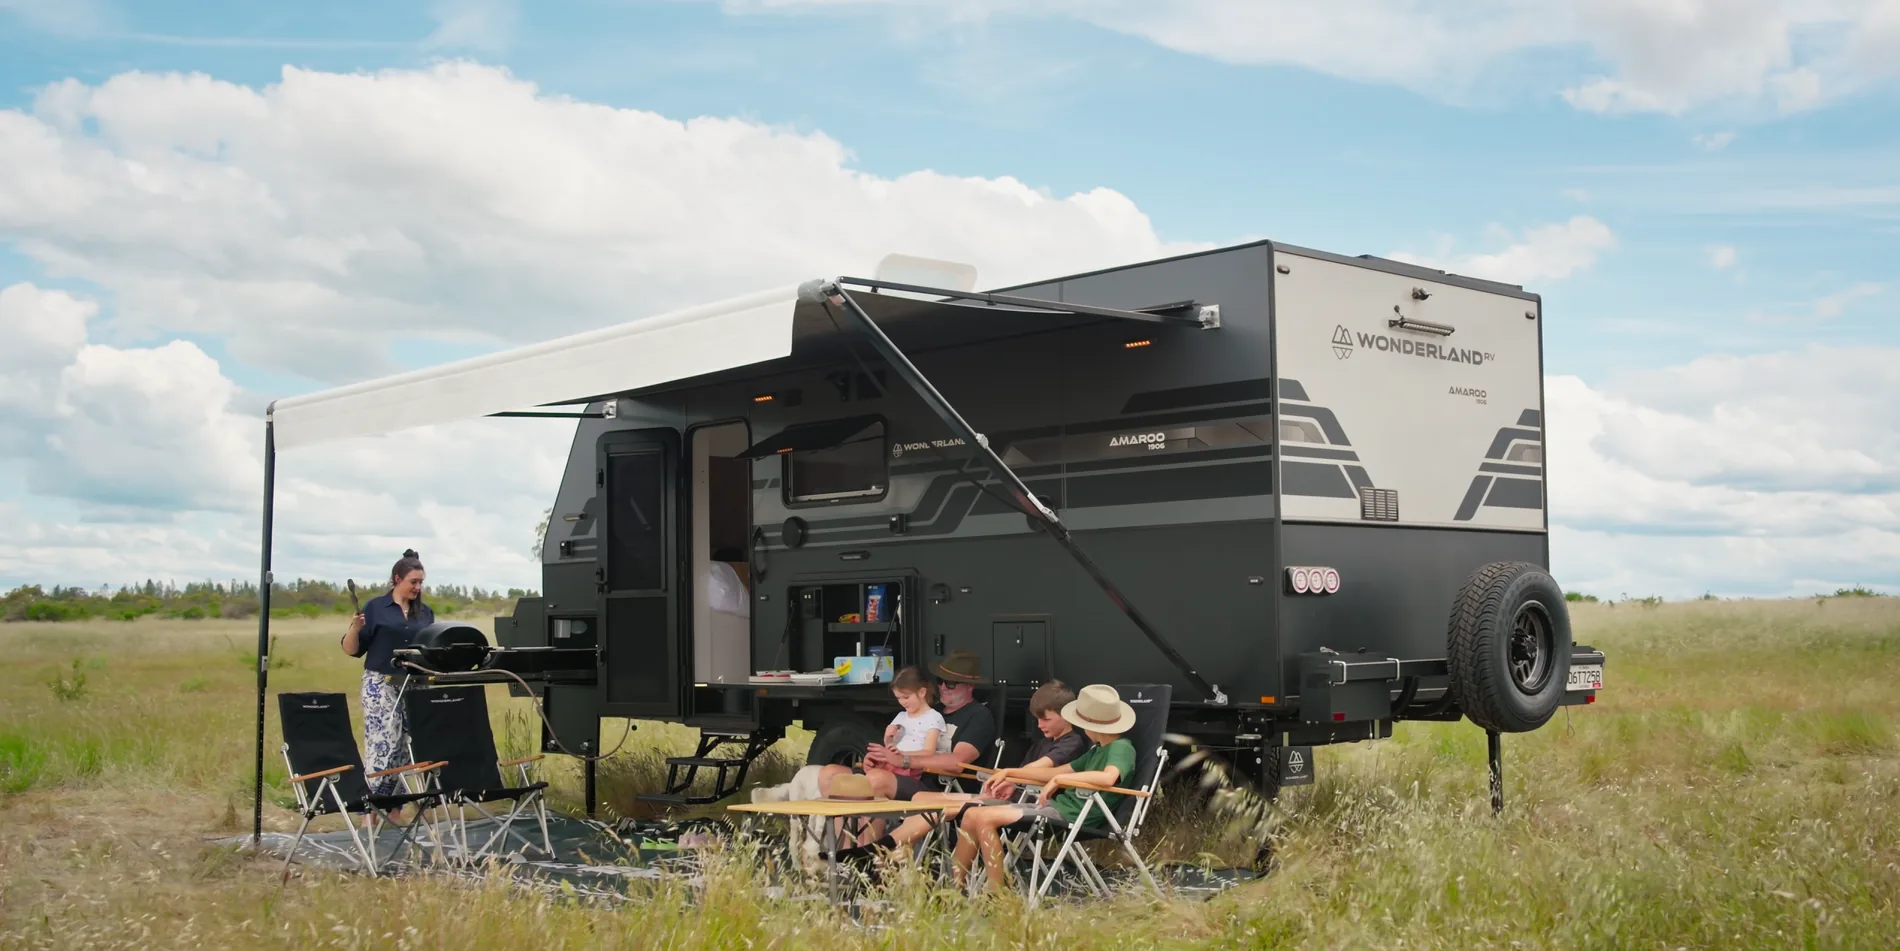
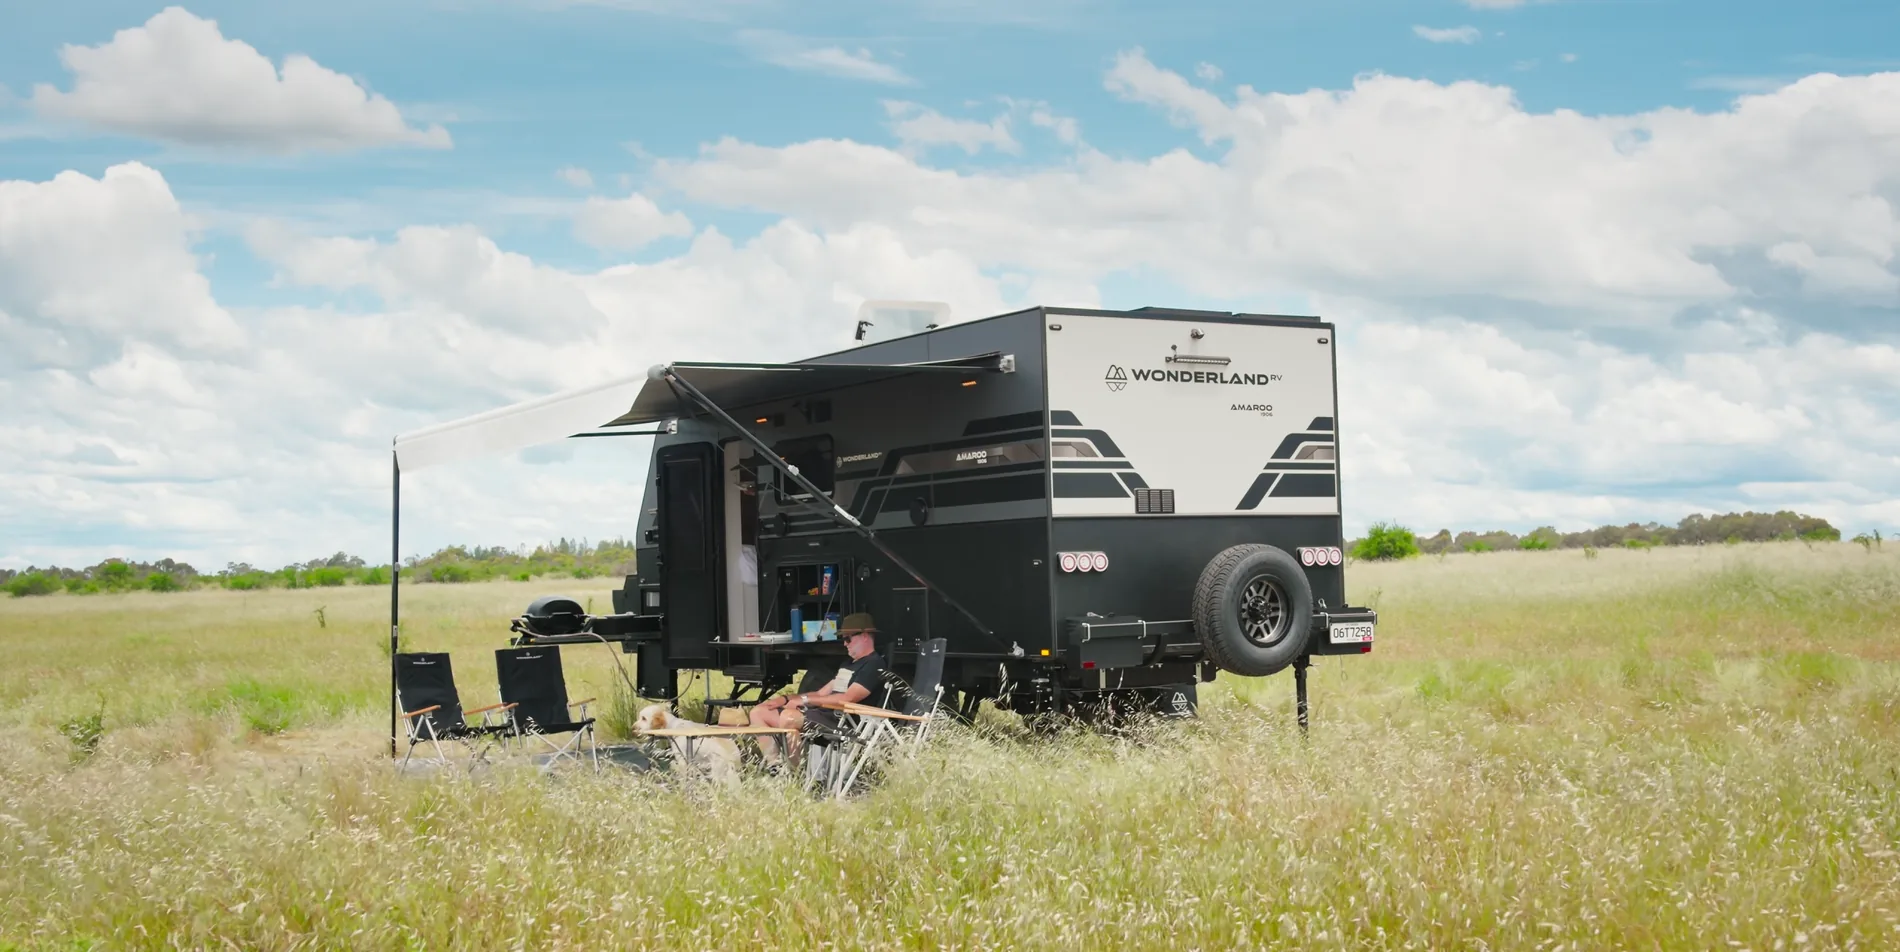
Dream: squeeze the mosaic, open both joins, new photography
THE SQUEEZE. The mosaic drops 555 -> 513 at 1440x820 and the height goes
to the two gaps, which were reading as crowded:

                       was     now
  padding above       0.44    0.52
  heading to mosaic   0.26    0.46    +75%
  mosaic to points    0.40    0.76    +90%
  padding below       0.52    0.60
  mosaic               555     513     -8%

Still the pictures' own height rather than a fixed box -- the mosaic keeps
flex: 1 and simply has less left to take, so all three parts stay on
screen together at any window shape.

A side effect worth having: at 513 the top tiles come out at 1.91, so a
2.00 source loses 5% of its width instead of 11%. Squeezing the block made
the vans in it MORE whole, not less.

PHOTOGRAPHY. Three of the four are replaced to drop the model who recurs
through the interior shoot -- she was in the exterior, the kitchen and the
interior tile, which is three quarters of the section carrying one face.

  a  exterior  L1   whole Amaroo, awning out, field    (was L2)
  b  kitchen   L22  the slide-out kitchen in use       (was L19)
  c  bench     L37  interior bench, no people          (was L13)
  d  coast     H4   unchanged -- it has no people in it

L26 was the obvious replacement for the kitchen tile and is out too: her
hands and hair are in the right of frame.

c takes a 2.08 bench into a 0.94 portrait slot, which keeps 45% of the
width. Centred, that frame lands on the window and the bowl and loses the
[…]

diff --git a/home.html b/home.html
@@ -6,12 +6,12 @@
 <title>Wonderland RV — Luxury Off-Road Caravans</title>
 <meta name="description" content="Wonderland RV's bespoke off-road caravans combine the comforts of a boutique hotel with the freedom to explore Australia's rugged beauty.">
 <link rel="icon" href="assets/img/wonderland-rv-logo.png">
-<link rel="stylesheet" href="assets/css/styles.css?v=261">
-<link rel="stylesheet" href="assets/css/type-compact.css?v=261">
-<link rel="stylesheet" href="assets/css/ambassadors.css?v=261">
-<link rel="stylesheet" href="assets/css/homepage.css?v=261">
-<link rel="stylesheet" href="assets/css/range-viewer.css?v=261">
-<link rel="stylesheet" href="assets/css/home-order.css?v=261">
+<link rel="stylesheet" href="assets/css/styles.css?v=263">
+<link rel="stylesheet" href="assets/css/type-compact.css?v=263">
+<link rel="stylesheet" href="assets/css/ambassadors.css?v=263">
+<link rel="stylesheet" href="assets/css/homepage.css?v=263">
+<link rel="stylesheet" href="assets/css/range-viewer.css?v=263">
+<link rel="stylesheet" href="assets/css/home-order.css?v=263">
 </head>
 <body class="home">
 
@@ -272,8 +272,8 @@
     <div class="dream-shot dream-shot--b ph" data-ph="dream26/kitchen.webp">
       <img src="assets/img/home/dream26/kitchen.webp" alt="" onload="this.parentElement.classList.remove('ph')" onerror="this.remove()">
     </div>
-    <div class="dream-shot dream-shot--c ph" data-ph="dream26/dinette.webp">
-      <img src="assets/img/home/dream26/dinette.webp" alt="" onload="this.parentElement.classList.remove('ph')" onerror="this.remove()">
+    <div class="dream-shot dream-shot--c ph" data-ph="dream26/bench.webp">
+      <img src="assets/img/home/dream26/bench.webp" alt="" onload="this.parentElement.classList.remove('ph')" onerror="this.remove()">
     </div>
     <div class="dream-shot dream-shot--d ph" data-ph="dream26/coast.webp">
       <img src="assets/img/home/dream26/coast.webp" alt="" onload="this.parentElement.classList.remove('ph')" onerror="this.remove()">
@@ -437,7 +437,7 @@
   <div class="amb-more-strip" tabindex="0" aria-label="The Wonderlanders">
     <div class="wl-card">
       <div class="wl-card-media ph" data-ph="AMBASSADOR PHOTO — The Feel Good Family">
-        <img src="assets/img/ambassadors/feel-good-family.jpg?v=261" alt="Katie, Paul and Jasper of The Feel Good Family with their Wonderland RV Solara" onload="this.parentElement.classList.remove('ph')" onerror="this.remove()">
+        <img src="assets/img/ambassadors/feel-good-family.jpg?v=263" alt="Katie, Paul and Jasper of The Feel Good Family with their Wonderland RV Solara" onload="this.parentElement.classList.remove('ph')" onerror="this.remove()">
       </div>
       <div class="wl-card-name">
         <div class="wl-card-head">
@@ -496,7 +496,7 @@
     </div>
     <div class="wl-card">
       <div class="wl-card-media ph" data-ph="AMBASSADOR PHOTO — The Kiwi Van Life">
-        <img src="assets/img/ambassadors/kiwi-van-life.jpg?v=261" alt="Rorden, Cass, Jed and Lexi of The Kiwi Van Life" onload="this.parentElement.classList.remove('ph')" onerror="this.remove()">
+        <img src="assets/img/ambassadors/kiwi-van-life.jpg?v=263" alt="Rorden, Cass, Jed and Lexi of The Kiwi Van Life" onload="this.parentElement.classList.remove('ph')" onerror="this.remove()">
       </div>
       <div class="wl-card-name">
         <div class="wl-card-head">
@@ -936,14 +936,14 @@
   </div>
 </footer>
 
-<script src="assets/js/video-embed.js?v=261"></script>
-<script src="assets/js/home.js?v=261"></script>
-<script src="assets/js/reviews.js?v=261"></script>
-<script src="assets/js/footer.js?v=261"></script>
-<script src="assets/js/budget.js?v=261"></script>
-<script src="assets/js/faq.js?v=261"></script>
-<script src="assets/js/range-viewer.js?v=261"></script>
-<script src="assets/js/wl-strip.js?v=261"></script>
-<script src="assets/js/nav.js?v=261"></script>
+<script src="assets/js/video-embed.js?v=263"></script>
+<script src="assets/js/home.js?v=263"></script>
+<script src="assets/js/reviews.js?v=263"></script>
+<script src="assets/js/footer.js?v=263"></script>
+<script src="assets/js/budget.js?v=263"></script>
+<script src="assets/js/faq.js?v=263"></script>
+<script src="assets/js/range-viewer.js?v=263"></script>
+<script src="assets/js/wl-strip.js?v=263"></script>
+<script src="assets/js/nav.js?v=263"></script>
 </body>
 </html>

diff --git a/assets/css/home-order.css b/assets/css/home-order.css
@@ -162,15 +162,24 @@
    off the bottom of the band instead of giving up height.
 
    THE GAPS, which have to hold all three visible at once. At 1440x820 the
-   band is 733px and the fixed parts come to 178 of it:
+   band is 733px and the fixed parts come to 221 of it:
 
-     0.44  padding above the heading        27px
+     0.52  padding above the heading        32px
      0.56  the heading itself               34px
-     0.26  heading to mosaic                16px
-     ----  mosaic: whatever is left        555px
-     0.40  mosaic to points                 24px
+     0.46  heading to mosaic                28px   (was 0.26)
+     ----  mosaic: whatever is left        512px   (was 555)
+     0.76  mosaic to points                 46px   (was 0.40)
      ----  the points themselves            45px
-     0.52  padding below                    32px
+     0.60  padding below                    36px
+
+   The mosaic is squeezed 8% and the height goes to the two joins, which
+   were reading as crowded: heading to pictures is up 75% and pictures to
+   points up 90%. Both are still the pictures' own height, not a fixed box
+   -- the mosaic keeps flex: 1 and simply has less to take.
+
+   A side effect worth having: at 512 the top tiles come out at 1.94, so a
+   2.00 source now loses 3% of its width rather than 11%. Squeezing the
+   block made the vans in it MORE whole, not less.
 
    THE GRID. Three equal columns and two equal rows -- the asymmetry is the
    spanning alone, not the track sizes:
@@ -194,7 +203,7 @@
    the grid area. position: static kills the offsets, auto kills the rest,
    and the items then stretch to their tracks so img height: 100% resolves. */
 .dream { height: var(--band-h); display: flex; flex-direction: column;
-         padding: 0.44rem 0 0.52rem; }
+         padding: 0.52rem 0 0.60rem; }
 
 .dream-head  { position: static; flex: none; }
 .dream-title { font-size: var(--t-heading); }   /* back to 56: the collision
@@ -202,7 +211,7 @@
 
 .dream-mosaic {
   flex: 1; min-height: 0; height: auto;
-  margin-top: 0.26rem;
+  margin-top: 0.46rem;
   width: 100vw; margin-left: calc(50% - 50vw);
   display: grid; gap: 0.16rem;
   grid-template-columns: repeat(3, 1fr);
@@ -218,11 +227,17 @@
 .dream-shot--c { grid-area: 1 / 3 / 3 / 4; }   /* the full-height right tile */
 .dream-shot--d { grid-area: 2 / 1 / 3 / 3; }   /* the wide bottom tile       */
 
-/* a 3.00 source into a 3.6 slot: the trim is vertical, so it is taken off
+/* a 3.00 source into a 3.9 slot: the trim is vertical, so it is taken off
    the road rather than the horizon */
 .dream-shot--d img { object-position: 50% 42%; }
 
-.dream-points { flex: none; margin-top: 0.40rem; }
+/* c takes a 2.08 bench into a 0.94 portrait slot, which keeps 45% of the
+   width. Centred, that frame lands on the window and the bowl and loses the
+   board entirely, so it is pulled left onto the vegetables and flowers --
+   the only things in the picture with any colour in them. */
+.dream-shot--c img { object-position: 38% 50%; }
+
+.dream-points { flex: none; margin-top: 0.76rem; }
 
 /* GET A QUOTE is off the desktop mosaic. Hidden, not deleted: homepage.css
    line 923 gives this button its own phone rule -- position: static, in the
